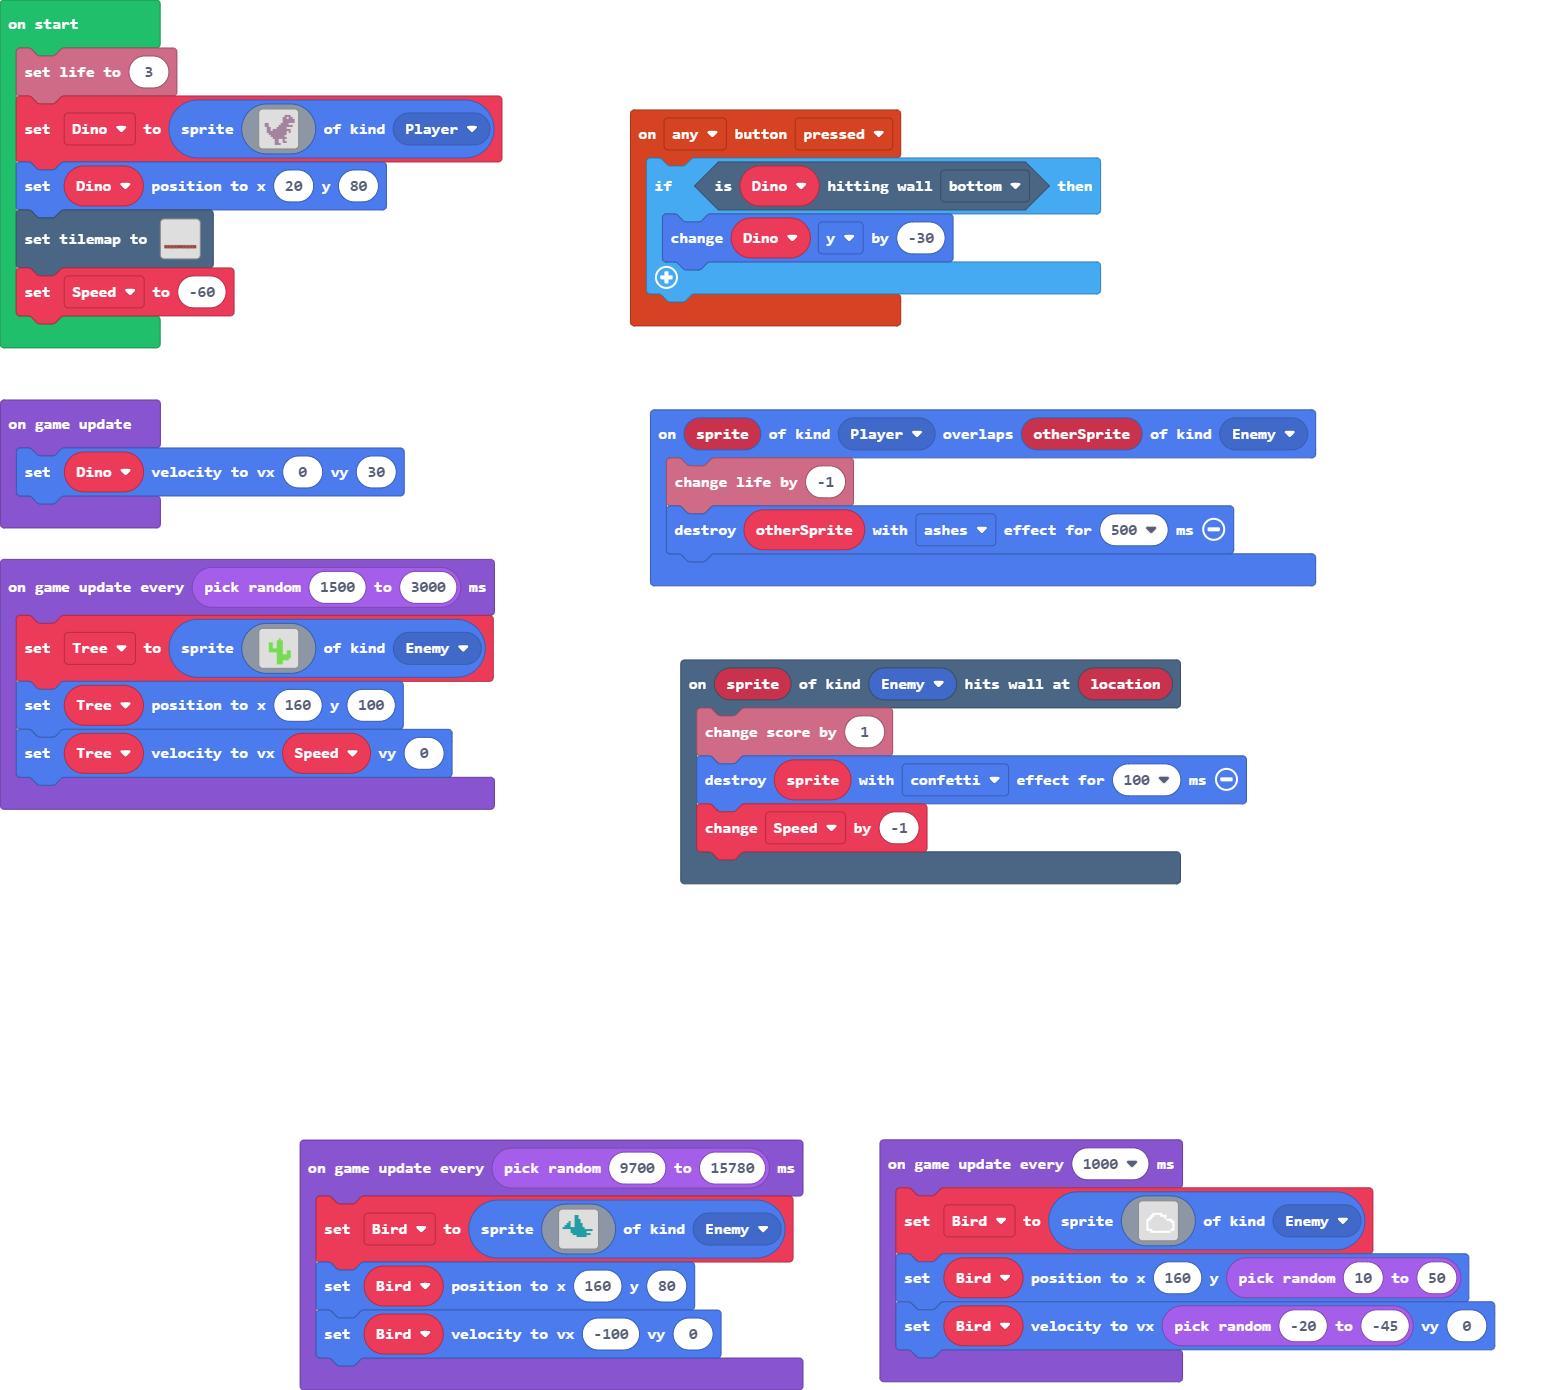
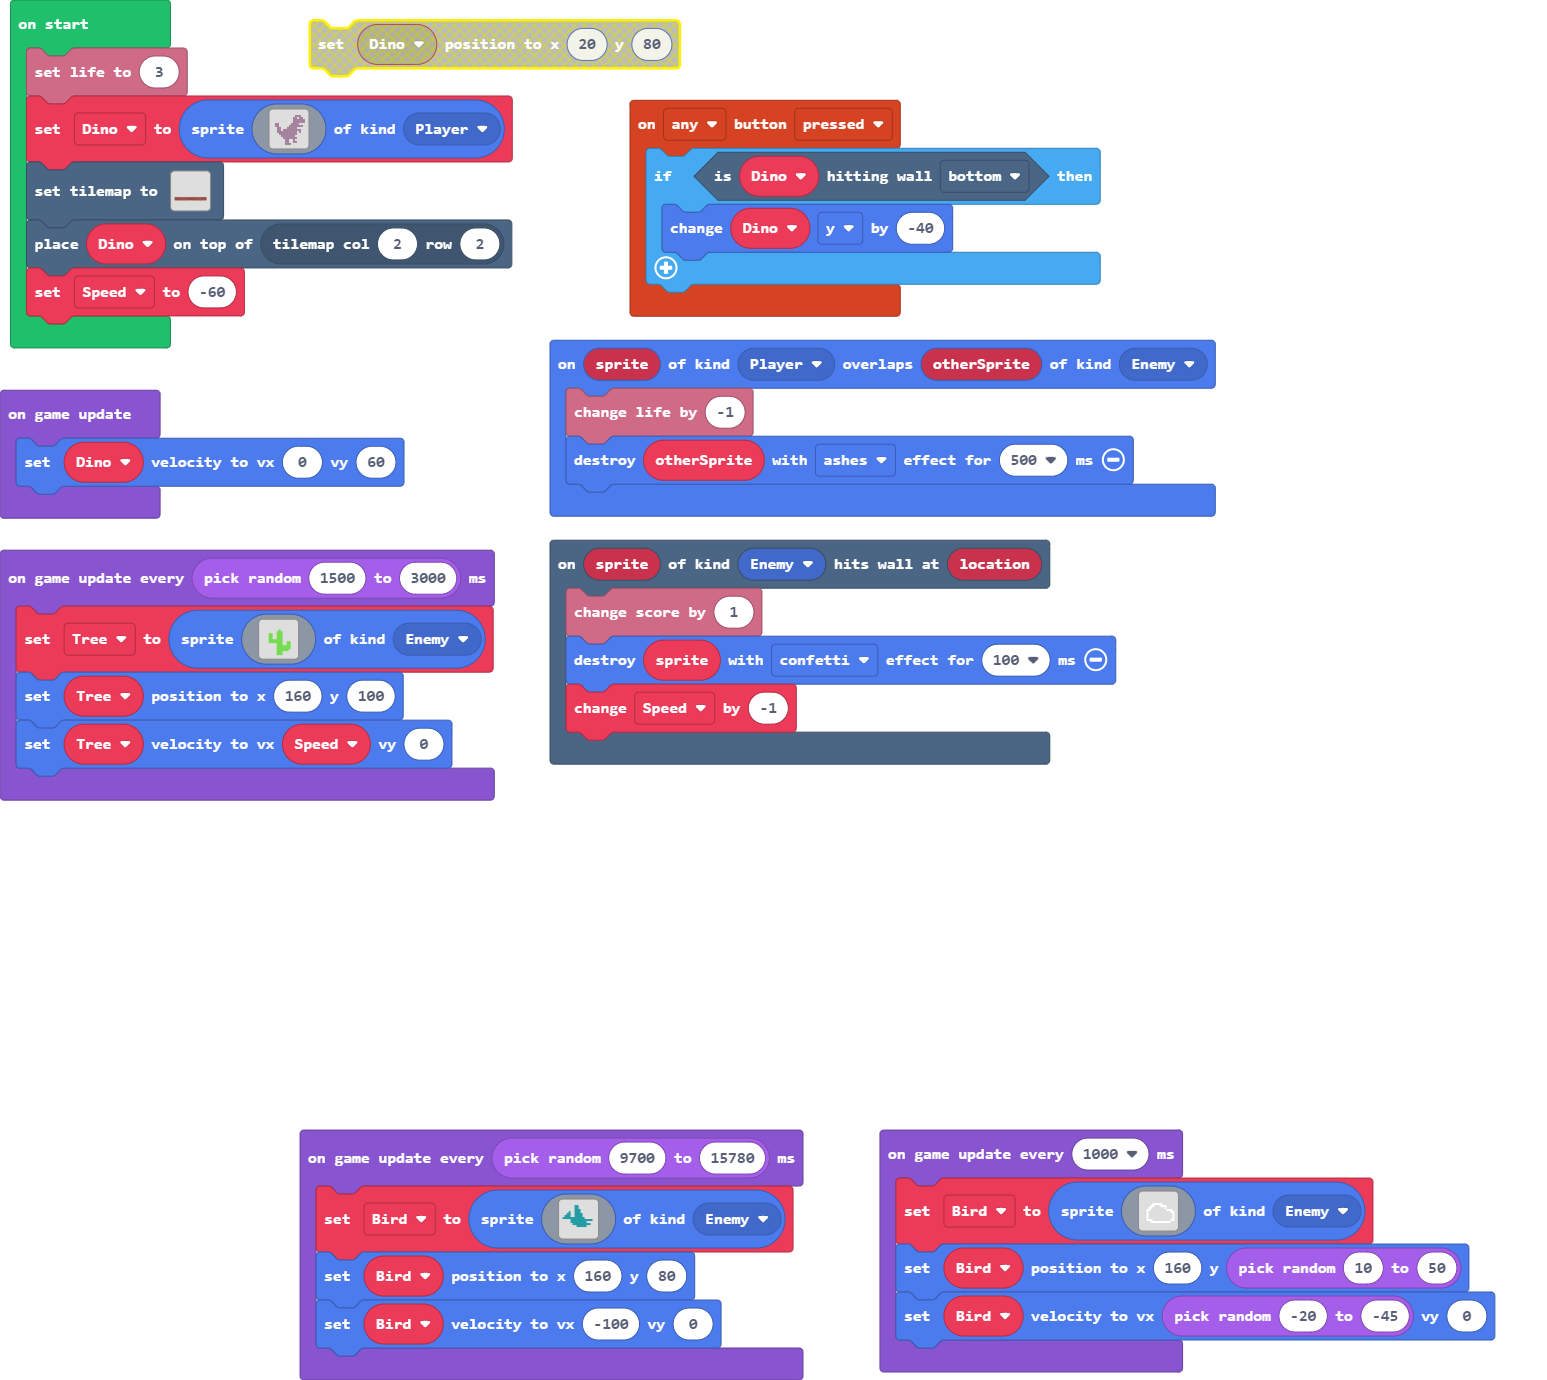
Update pxt.json, main.blocks, main.ts

diff --git a/main.ts b/main.ts
@@ -1,6 +1,6 @@
 controller.anyButton.onEvent(ControllerButtonEvent.Pressed, function () {
     if (Dino.isHittingTile(CollisionDirection.Bottom)) {
-        Dino.y += -30
+        Dino.y += -40
     }
 })
 scene.onHitWall(SpriteKind.Enemy, function (sprite, location) {
@@ -34,11 +34,11 @@ Dino = sprites.create(img`
     . . . . . . b b . . b b . . . . 
     . . . . . . b b b . . . . . . . 
     `, SpriteKind.Player)
-Dino.setPosition(20, 80)
 tiles.setTilemap(tilemap`level1`)
+tiles.placeOnTile(Dino, tiles.getTileLocation(2, 2))
 let Speed = -60
 game.onUpdate(function () {
-    Dino.setVelocity(0, 30)
+    Dino.setVelocity(0, 60)
 })
 game.onUpdateInterval(randint(1500, 3000), function () {
     Tree = sprites.create(img`
